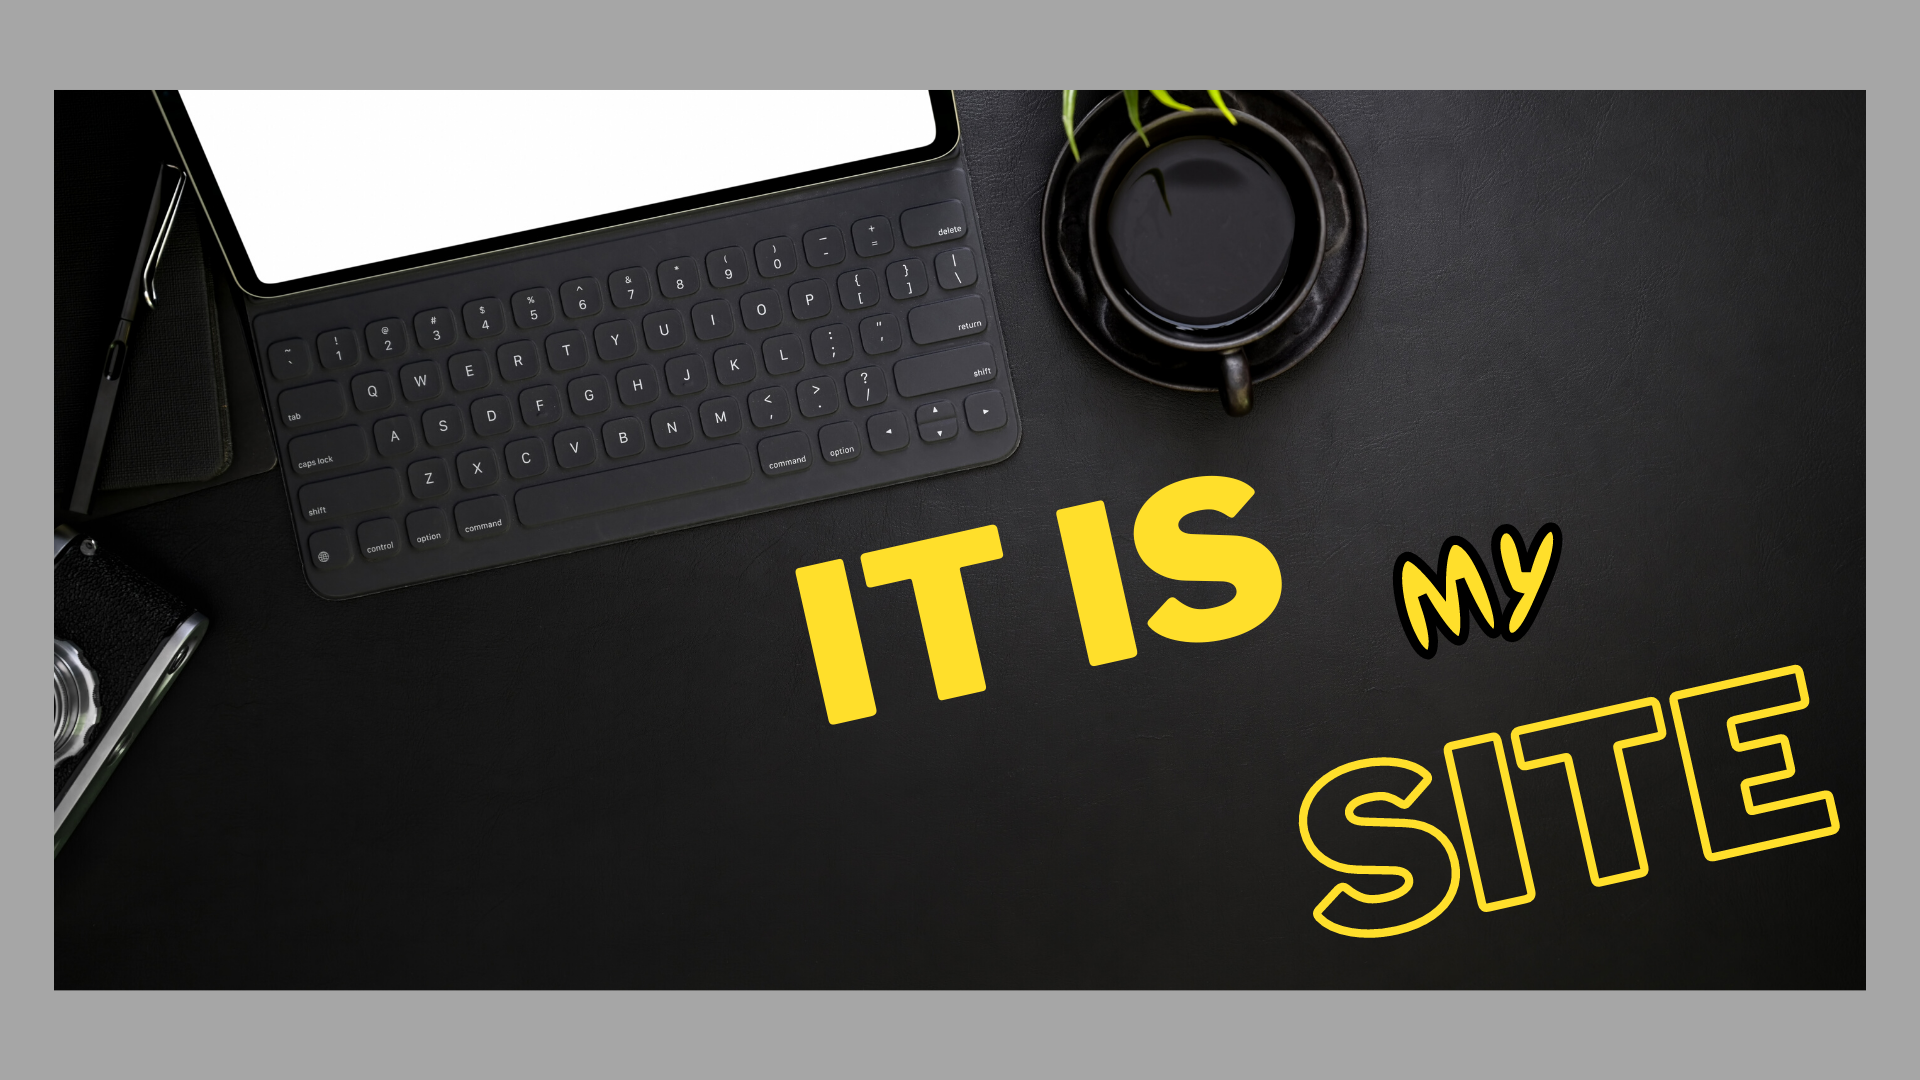
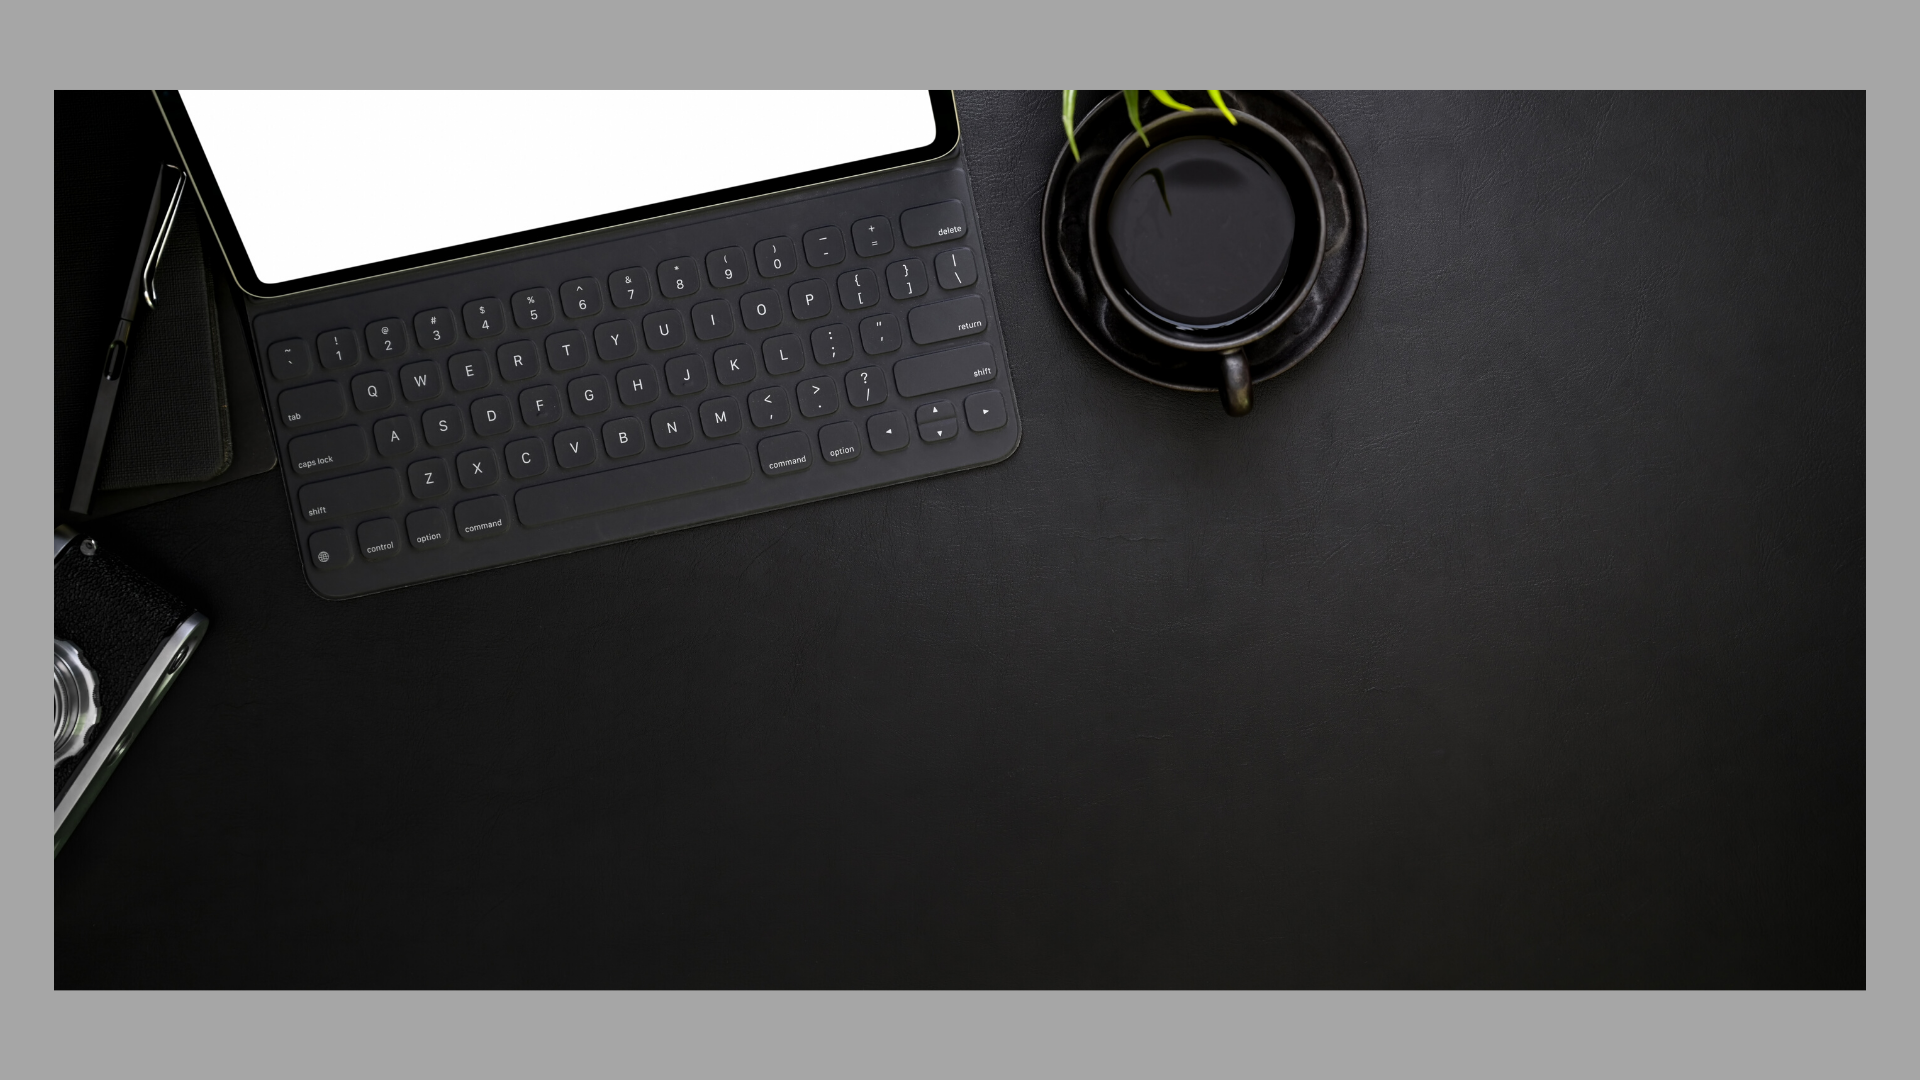
Add files via upload

Changed region(s): [[0.6562, 0.6111, 0.9688, 0.8861], [0.4062, 0.4278, 0.6875, 0.6722], [0.7188, 0.4889, 0.8125, 0.6111]]

diff --git a/index.html b/index.html
@@ -11,20 +11,27 @@
 <body><a name="molanter" ></a>
     <header>  
         <menu>
-            <ul class="ul_line border_bottom wid_a">
-                <li class="li_line"><a class="a_header anim_a" href="#molanter">Molanter</li></a>
-                <li class="li_line"><a class="a_header anim_a" href="#about">About</li></a>
-                <li class="li_line"><a class="a_header anim_a" href="#works">Works</li></a>
-                <li class="li_line"><a class="a_header anim_a" href="#styles">Styles</li></a>
-                <li class="li_line"><a class="a_header anim_a" href="#cotact">Contact</li></a>
+            <ul class="ul_line border_bottom ">
+                <li class="li_line"><a class="a_header anim_a wid_a" href="#molanter">Molanter</li></a>
+                <li class="li_line"><a class="a_header anim_a wid_a" href="#about">About</li></a>
+                <li class="li_line"><a class="a_header anim_a wid_a" href="#works">Works</li></a>
+                <li class="li_line"><a class="a_header anim_a wid_a" href="#styles">Styles</li></a>
+                <li class="li_line"><a class="a_header anim_a wid_a" href="#cotact">Contact</li></a>
             </ul>
         </menu>
     </header>
     <main >
-        <section class="padding_skils">
-            <div class="div_">   
-                <img id="bg_photo" class="cont" src="./assets/img/background.png">
-
+        <section class="padding_skils ">
+            <div class="div_ ">   
+                <img id="bg_photo" class="cont " src="./assets/img/background.png">
+                <div class="text_rot">
+                    <ul class="no">
+                        <li><p class="cont_1">This</p></li>
+                        <li><p class="cont_2">Is</p></li>
+                        <li><p class="cont_3">Examle</p></li>
+                        <li><p class="cont_4">Site</p></li>
+                    </ul>
+                </div>
             </div>
             
         </section>
@@ -88,7 +95,7 @@
         <a name="styles" ></a>
         <div>
             <span class="skils_center padding_skils h anim_big ">Styles</span>
-            <span class="skils_center_ padding_skils h anim_big wid_big">Colors</span>
+            <span class="skils_center_ padding_skils h anim_big wid_big col">Colors</span>
             <ul class="ul_skils">
             <li class="li_skils pad_righ st_s"><div class="wid_icon"><img class="prog_icon_g padding_skils anim" src="./assets/img/gray.png"></div>
                 <span >Gray</span>
@@ -104,7 +111,7 @@
             </li>
             
         </ul>    
-        <span class="skils_center_ padding_skils h anim_big wid_big">Fonts</span>
+        <span class="skils_center_ padding_skils h anim_big wid_big col">Fonts</span>
             <ul class="ul_skils fonts_pad">
             <li class="li_skils pad_righ st_s">
                 <div class=" wid_icon">

diff --git a/styles.css b/styles.css
@@ -1,6 +1,7 @@
 /*font-family: 'Stick No Bills', sans-serif;
 font-family: 'Tourney', cursive;
-font-family: 'Zen Tokyo Zoo', cursive;*/
+font-family: 'Zen Tokyo Zoo', cursive;
+font-family: "YADK4IiTTgI 0", _fb_, auto;*/
 /*
 255, 223, 43 Yellow
 255, 153, 0 orange
@@ -15,7 +16,7 @@ html{
     color: rgb(0, 0, 0);
 }
 .wid_ab{
-    height: 30px;
+    height: 20px;
 }
 header{
     background-color: rgb(0, 0, 0);
@@ -24,7 +25,7 @@ header{
 
 }
 .anim_a:hover{
-    font-size: 40px;
+    font-size: 36px;
     color: rgb(255, 223, 43);
 }
 .wid_a{
@@ -57,7 +58,8 @@ body {
     padding-inline-start: 0px;
     font-size: 20px;
     width: 90%;
-    padding-left: 5%;
+    padding: 0px;
+    height: 50px;
 
 }
 .border_bottom{
@@ -68,10 +70,10 @@ body {
     padding: 0;
     display: inline;
     justify-content: space-between;
+    width: 100px;
 }
 menu {
-    padding-left: 33px;
-    padding-right: 33px;
+    width: 100%;
     margin: 0;
     font-family: 'Zen Tokyo Zoo', cursive;
     color: rgb(255, 223, 43);
@@ -122,10 +124,9 @@ menu {
 }
 .a_header{
     text-decoration: none;
-    font-size: 36px;
+    font-size: 30px;
     color: rgb(255, 153, 0);
-
-
+    
 }
 .li_skils{
     display: flex;
@@ -170,20 +171,74 @@ menu {
 }
 #bg_photo{
     width: 90%;
-    padding-left: 5%;
 }
 .cont{
     position: relative;
     width: 100%;
 
 }
+.cont_1{
+    position: absolute;
+    top: 70px;
+    left: -150px;
+    color: rgb(255, 223, 43);
+    font-family: 'Tourney', cursive;
+    font-size: 80px;
+    float: left;
+}
+.cont_2{
+    position: absolute;
+    top: 175px;
+    left: 0px;
+    color: rgb(255, 223, 43);
+    font-family: 'Zen Tokyo Zoo', cursive;
+    font-size: 60px;
+}
+.cont_3{
+    position: absolute;
+    top: 200px;
+    left: 100px;
+    color: rgb(255, 223, 43);
+    font-family: 'Tourney', cursive;
+    font-size: 70px;
+}
+.cont_4{
+    position: absolute;
+    top: 300px;
+    left: 250px;
+    color: rgb(255, 223, 43);
+    font-family: 'Zen Tokyo Zoo', cursive;
+    font-size: 70px;
+}
+.no{
+    list-style: none;
+}
+.text_rot:hover {
+    opacity: 100%;
+}
+
 .h2{
     position: absolute;
     top: 30%;
     left: 50%;
 }
+.text_rot{
+    transform: rotate(347deg);
+    position: absolute;
+    top: 30%;
+    left: 45%;
+    letter-spacing: 10px;
+    line-height: 10px;
+    word-spacing: 100px;
+    opacity: 0%;
+    justify-content: space-between;
+
+}
 .div_{
     margin: 0px;
+    position: relative;
+    text-align: center;
+
 }
 .sp_works{
     text-decoration: none;
@@ -252,7 +307,7 @@ footer{
     color: rgb(255, 223, 43);
 }
 .wid_icon{
-    height: 110px;
+    height: 120px;
     width: 110px;
 }
 .fonts_pad{
@@ -268,4 +323,7 @@ footer{
 }
 .wid_big{
     height: 40px;
+}
+.col{
+    color: black;
 }
